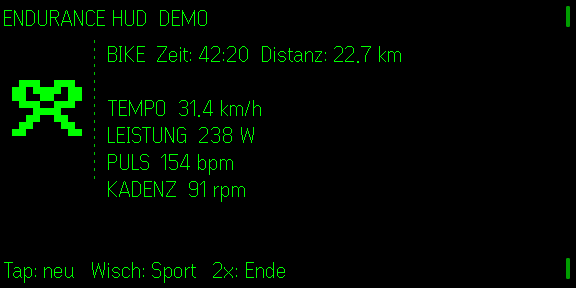
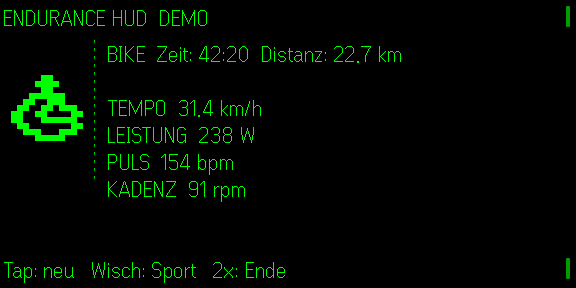
Polish app demos and screenshot gallery

Changed region(s): [[0.0, 0.25, 0.1562, 0.5]]

diff --git a/apps/endurance-hud/src/main.ts b/apps/endurance-hud/src/main.ts
@@ -5,7 +5,7 @@ import { gestureFromEvent } from "./input/gestures";
 import { demoTelemetry, elapsed, pace, parseTelemetry } from "./telemetry/model";
 const DEFAULT_ENDPOINT = "http://127.0.0.1:8792/live";
 const RUN_ICON = ["....##....", "...####...", "....##....", "...####...", "..######..", "....##....", "...###....", "..##.##...", ".##...##..", "##.....##."] as const;
-const BIKE_ICON = ["..........", ".###..###.", "##.####.##", "##..##..##", ".###..###.", "...####...", "..##..##..", ".##....##.", "##......##", ".........."] as const;
+const BIKE_ICON = [".....##.....", "....####....", ".....##.....", "...######...", "..##..###...", ".##..##.###.", "##..##....##", "##...######.", ".##.......##", "..###...###.", "....#####..."] as const;
 const words = { de: { live: "LIVE-TRAINING", demo: "DEMO", speed: "Tempo", pace: "Pace", power: "Leistung", heart: "Puls", cadence: "Kadenz", distance: "Distanz", elapsed: "Zeit", controls: "Tap: neu   Wisch: Sport   2x: Ende", lede: "Live-Werte vom Garmin, Radcomputer oder jeder JSON-Quelle.", endpoint: "Telemetrie-Bridge", save: "Speichern", help: "Die Bridge nimmt Live-JSON per POST an. Keine direkte Garmin-Anmeldung auf der Brille." }, en: { live: "LIVE WORKOUT", demo: "DEMO", speed: "Speed", pace: "Pace", power: "Power", heart: "Heart rate", cadence: "Cadence", distance: "Distance", elapsed: "Time", controls: "Tap: refresh   Swipe: sport   2x: close", lede: "Live metrics from Garmin, a bike computer, or any JSON source.", endpoint: "Telemetry bridge", save: "Save", help: "The bridge accepts live JSON via POST. No Garmin credentials are stored on the glasses." }, fr: { live: "ENTRAÎNEMENT LIVE", demo: "DÉMO", speed: "Vitesse", pace: "Allure", power: "Puissance", heart: "Fréquence", cadence: "Cadence", distance: "Distance", elapsed: "Temps", controls: "Tap: actualiser   Swipe: sport   2x: fermer", lede: "Mesures en direct depuis Garmin, un compteur ou une source JSON.", endpoint: "Passerelle télémétrie", save: "Enregistrer", help: "La passerelle accepte du JSON en POST. Aucun identifiant Garmin sur les lunettes." }, es: { live: "ENTRENO EN VIVO", demo: "DEMO", speed: "Velocidad", pace: "Ritmo", power: "Potencia", heart: "Pulso", cadence: "Cadencia", distance: "Distancia", elapsed: "Tiempo", controls: "Tap: actualizar   Deslizar: deporte   2x: cerrar", lede: "Métricas en vivo desde Garmin, ciclocomputador o cualquier fuente JSON.", endpoint: "Puente de telemetría", save: "Guardar", help: "El puente acepta JSON por POST. No guarda credenciales Garmin en las gafas." }, it: { live: "ALLENAMENTO LIVE", demo: "DEMO", speed: "Velocità", pace: "Passo", power: "Potenza", heart: "Battito", cadence: "Cadenza", distance: "Distanza", elapsed: "Tempo", controls: "Tap: aggiorna   Scorri: sport   2x: chiudi", lede: "Dati live da Garmin, ciclocomputer o qualsiasi fonte JSON.", endpoint: "Bridge telemetria", save: "Salva", help: "La bridge accetta JSON via POST. Nessuna credenziale Garmin sugli occhiali." } } as const;
 async function boot(): Promise<void> { const bridge: EvenAppBridge = await waitForEvenAppBridge(); let locale = getLocale(); let data = demoTelemetry(); let pageReady = false; let last = ""; let timer: ReturnType<typeof setInterval> | undefined; const t = () => words[locale];
   const view = (): TextView => ({ header: `ENDURANCE HUD  ${data.source === "demo" ? t().demo : t().live}`, body: [`${data.sport.toUpperCase()}  ${t().elapsed}: ${elapsed(data.elapsedSeconds)}  ${t().distance}: ${data.distanceKm.toFixed(1)} km`, "", data.sport === "run" ? `${t().pace.toUpperCase()}  ${pace(data.paceSecPerKm)} /km` : `${t().speed.toUpperCase()}  ${data.speedKph.toFixed(1)} km/h`, `${t().power.toUpperCase()}  ${Math.round(data.powerWatts)} W`, `${t().heart.toUpperCase()}  ${Math.round(data.heartRate)} bpm`, `${t().cadence.toUpperCase()}  ${Math.round(data.cadence)} rpm`], footer: t().controls });

diff --git a/apps/lumen-glass/src/main.ts b/apps/lumen-glass/src/main.ts
@@ -9,7 +9,8 @@ import { createPage, updatePage } from "./glasses/render";
 import { load, save, type LumenData } from "./storage/persist";
 import { mountPhoneUi } from "./ui/phone";
 
-const PIXEL_ICON = ["##......##", "####..####", ".########.", "..######..", "...####...", "....##....", "...####...", "..##..##..", ".##....##.", "##......##"] as const;
+const PIXEL_ICON = ["#........#", "###....###", ".###..###.", "..######..", "...####...", "....##....", "...####...", "..##..##..", ".##....##.", "##......##"] as const;
+const DEMO = new URLSearchParams(location.search).get("demo") === "1";
 
 /** How often the moth and the light window refresh. */
 const POLL_MS = 60_000;
@@ -18,7 +19,7 @@ async function boot(): Promise<void> {
   const bridge: EvenAppBridge = await waitForEvenAppBridge();
 
   let data: LumenData = await load(bridge);
-  let status: LumenStatus | null = null;
+  let status: LumenStatus | null = DEMO ? { moth: { light: 72, state: "wach", gesture: "circling in the light", streak: 6 }, quest: { id: 1, title: "Reflected Light", task: "Photograph a reflection that changes the scene.", medium: "foto", minutes: 15, checkable: null }, openQuests: 1, window: { kind: "golden", minutesAway: 24 } } : null;
   let phase: Phase = "idle";
   let result: { ok: boolean; text: string } | null = null;
   let error: string | null = null;
@@ -107,8 +108,7 @@ async function boot(): Promise<void> {
   };
 
   await draw();
-  await refresh();
-  schedule();
+  if (!DEMO) { await refresh(); schedule(); }
 
   bridge.onEvenHubEvent((event) => {
     const gesture = gestureFromEvent(event, { invertScroll: data.invertScroll });

diff --git a/apps/status-glass/src/main.ts b/apps/status-glass/src/main.ts
@@ -11,10 +11,13 @@ import { createPage, updatePage } from "./glasses/render";
 import { load, save, type StatusData } from "./storage/persist";
 import { mountPhoneUi } from "./ui/phone";
 
+const DEMO = new URLSearchParams(location.search).get("demo") === "1";
+
 async function boot(): Promise<void> {
   const bridge: EvenAppBridge = await waitForEvenAppBridge();
 
   let data: StatusData = await load(bridge);
+  if (DEMO) data = { ...data, sources: [{ id: "nas", name: "NAS", url: "http://demo.local/nas" }, { id: "home", name: "Home", url: "http://demo.local/home" }] };
   let statuses = new Map<string, SourceStatus>();
   const failures = new Map<string, number>();
   const timers = new Map<string, ReturnType<typeof setTimeout>>();
@@ -127,8 +130,13 @@ async function boot(): Promise<void> {
   };
 
   syncSources();
+  if (DEMO) {
+    const now = Date.now(); const nas = statuses.get("nas"); const home = statuses.get("home");
+    if (nas) statuses.set("nas", applyReport(nas, { name: "NAS", metrics: [{ id: "disk", label: "Disk", value: 91, unit: "%", warn: 85, critical: 96 }, { id: "backup", label: "Backup", state: "ok" }] }, now));
+    if (home) statuses.set("home", applyReport(home, { name: "Home", metrics: [{ id: "heat", label: "Heating", state: "ok" }, { id: "battery", label: "Sensor battery", value: 12, unit: "%", warn: 20, critical: 8, lowerIsWorse: true }] }, now));
+  }
   await draw();
-  startPolling();
+  if (!DEMO) startPolling();
 
   bridge.onEvenHubEvent((event) => {
     const gesture = gestureFromEvent(event, { invertScroll: data.invertScroll });

diff --git a/apps/field-log/src/main.ts b/apps/field-log/src/main.ts
@@ -2,7 +2,7 @@ import {
   AudioInputSource, waitForEvenAppBridge, type EvenAppBridge,
 } from "@evenrealities/even_hub_sdk";
 import { createMockStt, createWebSocketStt, type SttProvider, type SttStatus } from "./stt/provider";
-import { addEntry, attachToLatest, type Inspection, type Severity } from "./log/entries";
+import { addEntry, attachToLatest, startInspection, type Inspection, type Severity } from "./log/entries";
 import { gestureFromEvent } from "./input/gestures";
 import { buildView, type LogView, type Phase } from "./glasses/view";
 import { sameView } from "./glasses/diff";
@@ -13,11 +13,17 @@ import {
 import { mountPhoneUi } from "./ui/phone";
 
 const SEVERITIES: readonly Severity[] = ["note", "minor", "major"];
+const DEMO = new URLSearchParams(location.search).get("demo") === "1";
 
 async function boot(): Promise<void> {
   const bridge: EvenAppBridge = await waitForEvenAppBridge();
 
   let data: FieldLogData = await load(bridge);
+  if (DEMO) {
+    const now = Date.now(); let sample: Inspection = { ...startInspection("demo", "Hotel inspection", now - 1_380_000), section: "Room 204" };
+    sample = addEntry(sample, "Window seal is damaged", "major", now - 480_000); sample = addEntry(sample, "Lamp flickers above desk", "minor", now - 180_000); sample = addEntry(sample, "Smoke detector tested", "note", now - 30_000);
+    data = { ...data, inspections: [sample], activeId: sample.id };
+  }
   let phase: Phase = "idle";
   let pending: string | null = null;
   let stt: SttProvider | null = null;

diff --git a/apps/openglance-nav/src/main.ts b/apps/openglance-nav/src/main.ts
@@ -18,13 +18,15 @@ import {
 import { mountPhoneUi } from "./ui/phone";
 
 const PIXEL_ICON = [".....##...", "....####..", "...######.", "..########", ".####.####.", "####..###.", ".......##.", ".......##.", ".......##.", ".......##."] as const;
+const DEMO = new URLSearchParams(location.search).get("demo") === "1";
 
 async function boot(): Promise<void> {
   const bridge: EvenAppBridge = await waitForEvenAppBridge();
 
   let data: NavData = await load(bridge);
+  if (DEMO) data = { ...data, places: [{ id: "demo", label: "Mirabellplatz", at: { lat: 47.815, lon: 13.048 } }], destinationId: "demo", valhallaUrl: "" };
   let nav: NavState | null = null;
-  let position: LatLng | null = null;
+  let position: LatLng | null = DEMO ? { lat: 47.805, lon: 13.042 } : null;
   let rerouting = false;
   let error: string | null = null;
   let lastView: NavView | null = null;
@@ -93,7 +95,7 @@ async function boot(): Promise<void> {
     await draw();
   };
 
-  await draw();
+  if (DEMO && position) await computeRoute(position); else await draw();
 
   // Location updates: the distance filter keeps the callback quiet while
   // stationary, which matters for battery on a long walk.

diff --git a/apps/shift-clock/src/main.ts b/apps/shift-clock/src/main.ts
@@ -10,11 +10,16 @@ import { load, save, type ClockData } from "./storage/persist";
 import { mountPhoneUi } from "./ui/phone";
 
 const PIXEL_ICON = ["...####...", ".########.", ".##....##.", "##...#.###", "##...#.###", "##...####.", "##......##", ".##....##.", ".########.", "...####..."] as const;
+const DEMO = new URLSearchParams(location.search).get("demo") === "1";
 
 async function boot(): Promise<void> {
   const bridge: EvenAppBridge = await waitForEvenAppBridge();
 
   let data: ClockData = await load(bridge);
+  if (DEMO) {
+    const now = Date.now();
+    data = { ...data, projects: ["Client Portal", "Research"], entries: [{ id: "demo-1", project: "Research", startedAt: now - 7_200_000, endedAt: now - 5_850_000 }], open: { project: "Client Portal", startedAt: now - 2_754_000 } };
+  }
   let clock: ClockState = data.open;
   /** Non-null while the user is picking a project on the glasses. */
   let selecting: string | null = null;

diff --git a/apps/decibel-guard/src/main.ts b/apps/decibel-guard/src/main.ts
@@ -10,7 +10,7 @@ import { createPage, updatePage } from "./glasses/render";
 import { isCalibrated, load, save, type NoiseData } from "./storage/persist";
 import { mountPhoneUi } from "./ui/phone";
 
-const PIXEL_ICON = ["....##......", "...####.....", "..######....", "########....", "########..#.", "########..##", "########..##", "########..#.", "..######....", "...####.....", "....##......"] as const;
+const PIXEL_ICON = ["..........", "...##.....", "..###...#.", "#####....#", "#####..#.#", "#####..#.#", "#####....#", "..###...#.", "...##.....", ".........."] as const;
 
 async function boot(): Promise<void> {
   const bridge: EvenAppBridge = await waitForEvenAppBridge();

diff --git a/apps/cadence/src/main.ts b/apps/cadence/src/main.ts
@@ -10,7 +10,7 @@ import { createPage, updatePage } from "./glasses/render";
 import { load, save, setSettings, type CadenceData } from "./storage/persist";
 import { mountPhoneUi } from "./ui/phone";
 
-const PIXEL_ICON = ["....##....", "...####...", "...####...", "..##..##..", "..##..##..", ".##....##.", ".##....##.", "##......##", "##########", "##########"] as const;
+const PIXEL_ICON = ["....##....", "...####...", "....##....", "...####...", "...#..#...", "..##..##..", "..#.#..#..", ".##.#..##.", ".########.", "##########"] as const;
 
 /** Tempo step for a swipe on the glasses. */
 const BPM_STEP = 4;

diff --git a/docs/GALLERY.md b/docs/GALLERY.md
@@ -1,0 +1,28 @@
+# Quietglass G2 screenshot gallery
+
+Every image below is captured from the Even Hub simulator at the native 576 × 288 glasses resolution. Click an app name for its setup, controls, privacy notes, and install instructions.
+
+| App | Simulator capture |
+|---|---|
+| [Agent Glass](../apps/agent-glass) | ![Agent Glass](../apps/agent-glass/docs/screenshot.png) |
+| [Babel Glass](../apps/babel-glass) | ![Babel Glass](../apps/babel-glass/docs/screenshot.png) |
+| [Cadence](../apps/cadence) | ![Cadence](../apps/cadence/docs/screenshot.png) |
+| [Companion](../apps/companion) | ![Companion](../apps/companion/docs/screenshot.png) |
+| [Dayline](../apps/dayline) | ![Dayline](../apps/dayline/docs/screenshot.png) |
+| [DecibelGuard](../apps/decibel-guard) | ![DecibelGuard](../apps/decibel-guard/docs/screenshot.png) |
+| [Endurance HUD](../apps/endurance-hud) | ![Endurance HUD](../apps/endurance-hud/docs/screenshot.png) |
+| [FieldLog](../apps/field-log) | ![FieldLog](../apps/field-log/docs/screenshot.png) |
+| [FlowList](../apps/flowlist) | ![FlowList](../apps/flowlist/docs/screenshot.png) |
+| [Lumen Glass](../apps/lumen-glass) | ![Lumen Glass](../apps/lumen-glass/docs/screenshot.png) |
+| [Map Glass](../apps/map-glass) | ![Map Glass](../apps/map-glass/docs/screenshot.png) |
+| [Market Glance](../apps/market-glance) | ![Market Glance](../apps/market-glance/docs/screenshot.png) |
+| [NextStop](../apps/nextstop) | ![NextStop](../apps/nextstop/docs/screenshot.png) |
+| [OpenGlance Navigation](../apps/openglance-nav) | ![OpenGlance Navigation](../apps/openglance-nav/docs/screenshot.png) |
+| [PodCaption](../apps/podcaption) | ![PodCaption](../apps/podcaption/docs/screenshot.png) |
+| [PostureLens](../apps/posture-lens) | ![PostureLens](../apps/posture-lens/docs/screenshot.png) |
+| [PromptFlow](../apps/promptflow) | ![PromptFlow](../apps/promptflow/docs/screenshot.png) |
+| [RainLens](../apps/rain-lens) | ![RainLens](../apps/rain-lens/docs/screenshot.png) |
+| [ShiftClock](../apps/shift-clock) | ![ShiftClock](../apps/shift-clock/docs/screenshot.png) |
+| [Status Glass](../apps/status-glass) | ![Status Glass](../apps/status-glass/docs/screenshot.png) |
+
+The screenshots demonstrate simulator behavior, not physical-G2 verification. Each app README states its current hardware-validation status.

diff --git a/apps/lumen-glass/README.md b/apps/lumen-glass/README.md
@@ -4,6 +4,8 @@
 
 The glasses view now gives LUMEN its own monochrome pixel moth instead of relying on text alone.
 
+For a non-persistent simulator showcase without a running LUMEN server, open the development URL with `?demo=1`.
+
 [LUMEN](https://github.com/) is a self-hosted app built around a moth that
 lives on light. It gets tired when you stop photographing, and it never dies —
 a bad week must not kill the thing, or you never open it again.

diff --git a/apps/openglance-nav/README.md b/apps/openglance-nav/README.md
@@ -4,6 +4,8 @@
 
 A high-contrast pixel turn arrow gives the maneuver an instant visual anchor beside the route text.
 
+For a non-persistent mock route in the simulator, open the development URL with `?demo=1`.
+
 Every navigation app found for the Even G2 routes through Mapbox or another
 proprietary service — an account, a key, a quota. OpenGlance targets
 **Valhalla** on OpenStreetMap data, which you can host yourself.

diff --git a/README.md b/README.md
@@ -20,6 +20,8 @@ copying, so no app can break another.
 
 ## The apps
 
+See all twenty native-resolution simulator captures in the [screenshot gallery](docs/GALLERY.md).
+
 | App | What it does | Tests |
 |---|---|---|
 | [**PromptFlow**](apps/promptflow) | Teleprompter. Pacing counted in words read, not lines scrolled, so speed stays honest however the text wraps. | 90 |
